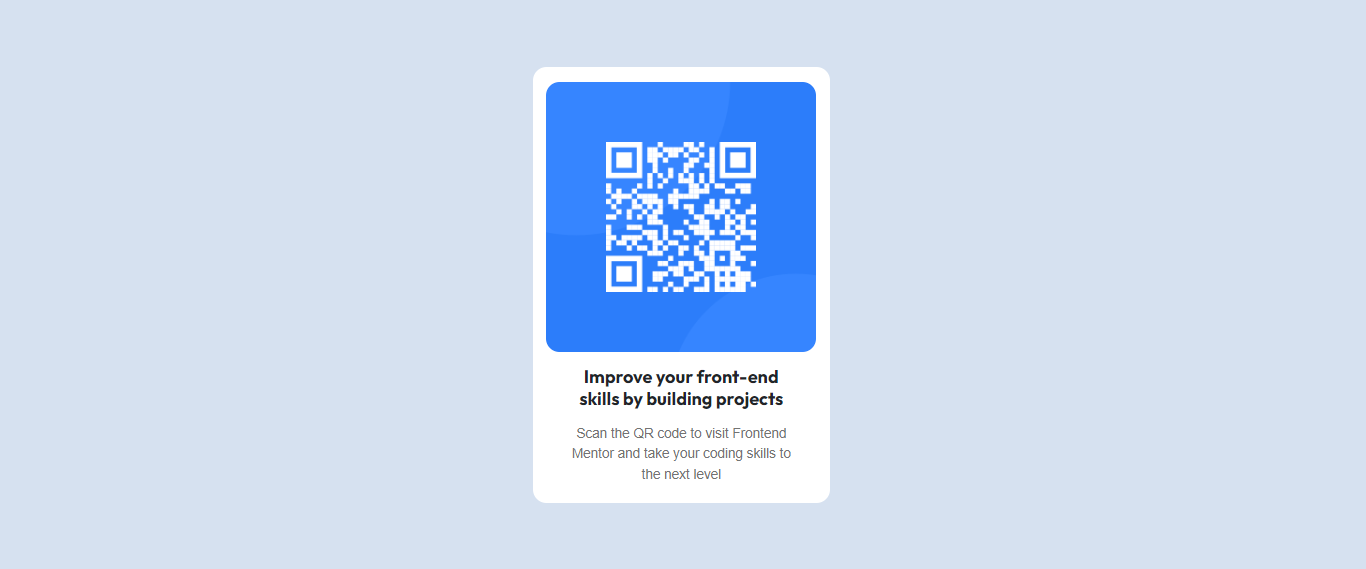
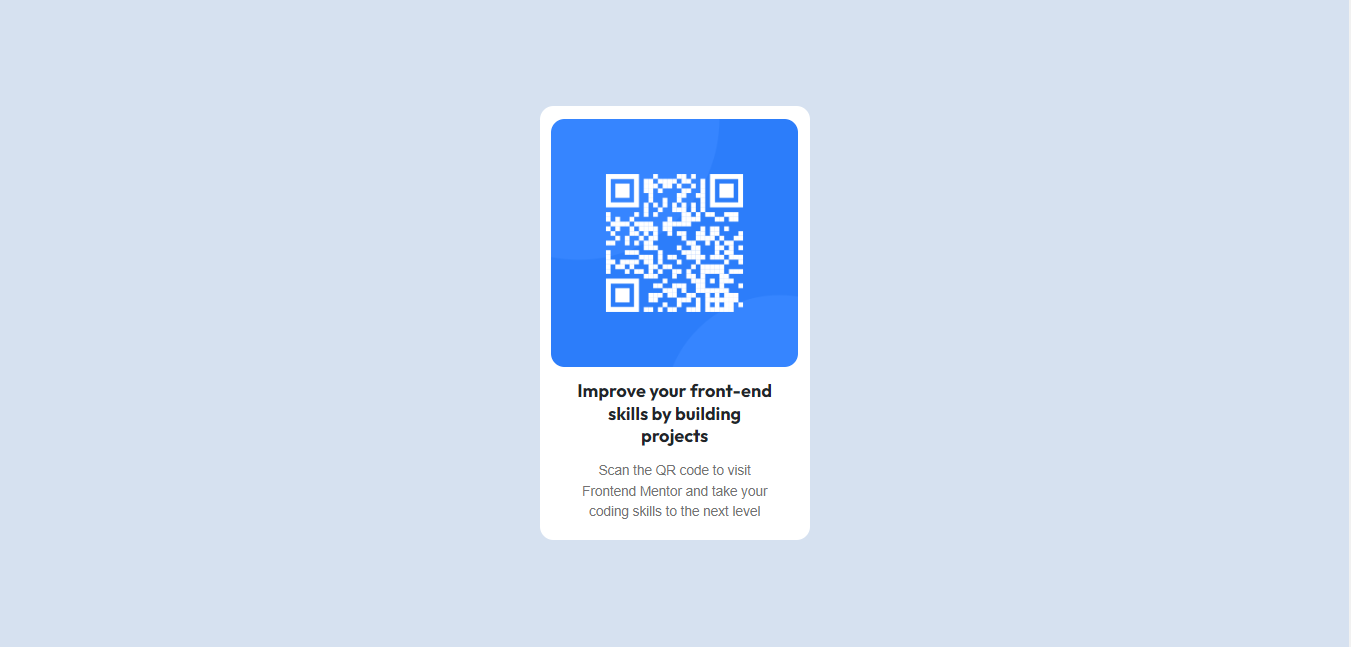
Ajeitando_css

Changed region(s): [[0.3731, 0.1195, 0.6218, 0.8963], [0.9948, 0.0, 1.0, 1.0]]

diff --git a/index.html b/index.html
@@ -22,7 +22,7 @@
   <div class="attribution">
     <div class="container-qr">
       <div>
-        <img class="img-qr" width="300" src="./images/image-qr-code.png" alt="">
+        <img class="img-qr" width="275" src="./images/image-qr-code.png" alt="">
       </div>
       <div>
         <h1 class="h1-qr">Improve your front-end skills by building projects</h1>
@@ -31,8 +31,6 @@
         <p class="p-qr">Scan the QR code to visit Frontend Mentor and take your coding skills to the next level</p>
       </div>
     </div>
-    Challenge by <a href="https://www.frontendmentor.io?ref=challenge" target="_blank">Frontend Mentor</a>. 
-    Coded by <a href="#">Your Name Here</a>.
   </div>
 </body>
 </html>

diff --git a/style.css b/style.css
@@ -5,12 +5,11 @@ body {
     align-items: center;
     padding-bottom: 5px;
     justify-content: center;
-    margin: 5% 39%;
-    width: 330px;
+    margin: 8% 40%;
+    width: 300px;
     background-color: #fff;
     border: none;
     border-radius: 15px;
-    /* box-shadow: 0px 0px 5px 1px #ffffff; */
 }
 
 .img-qr {
